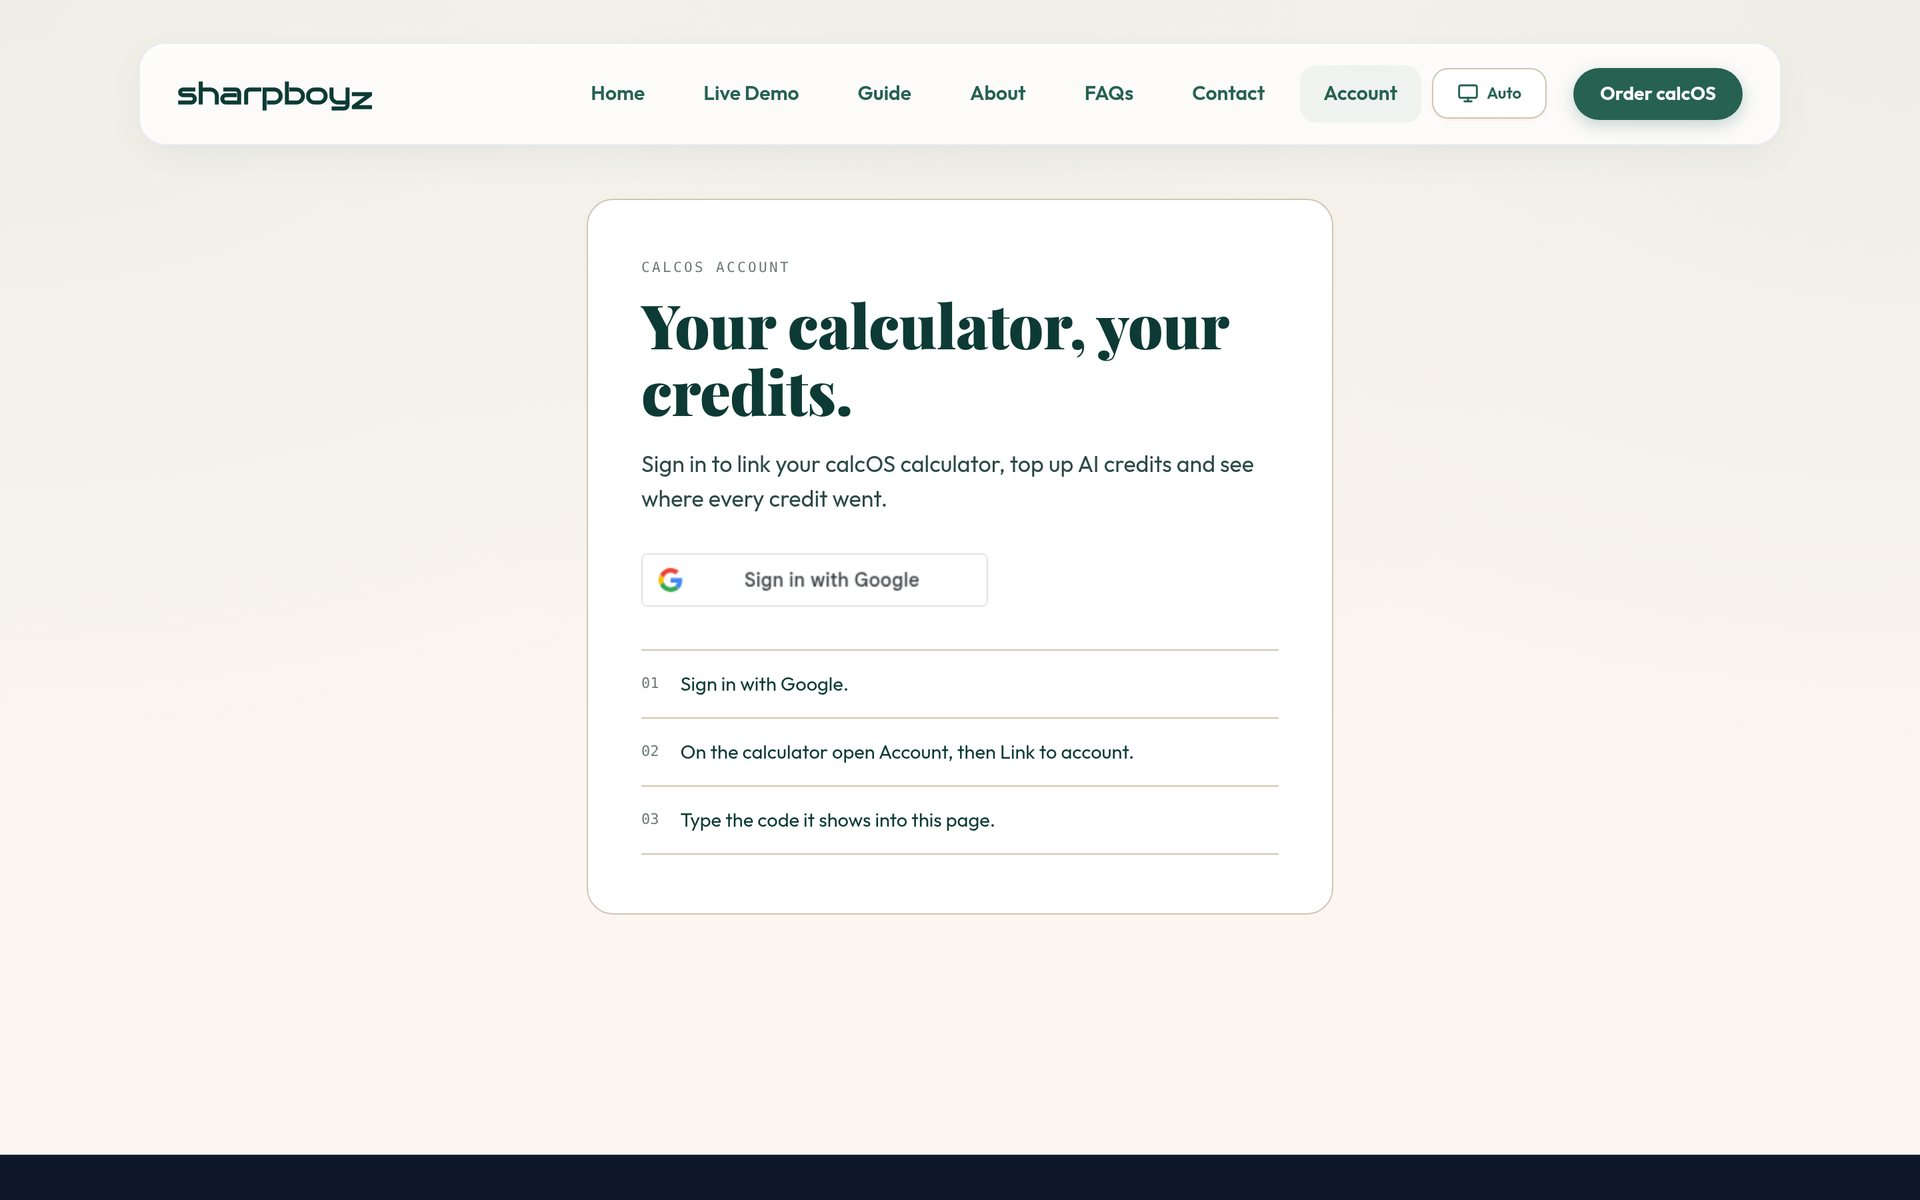
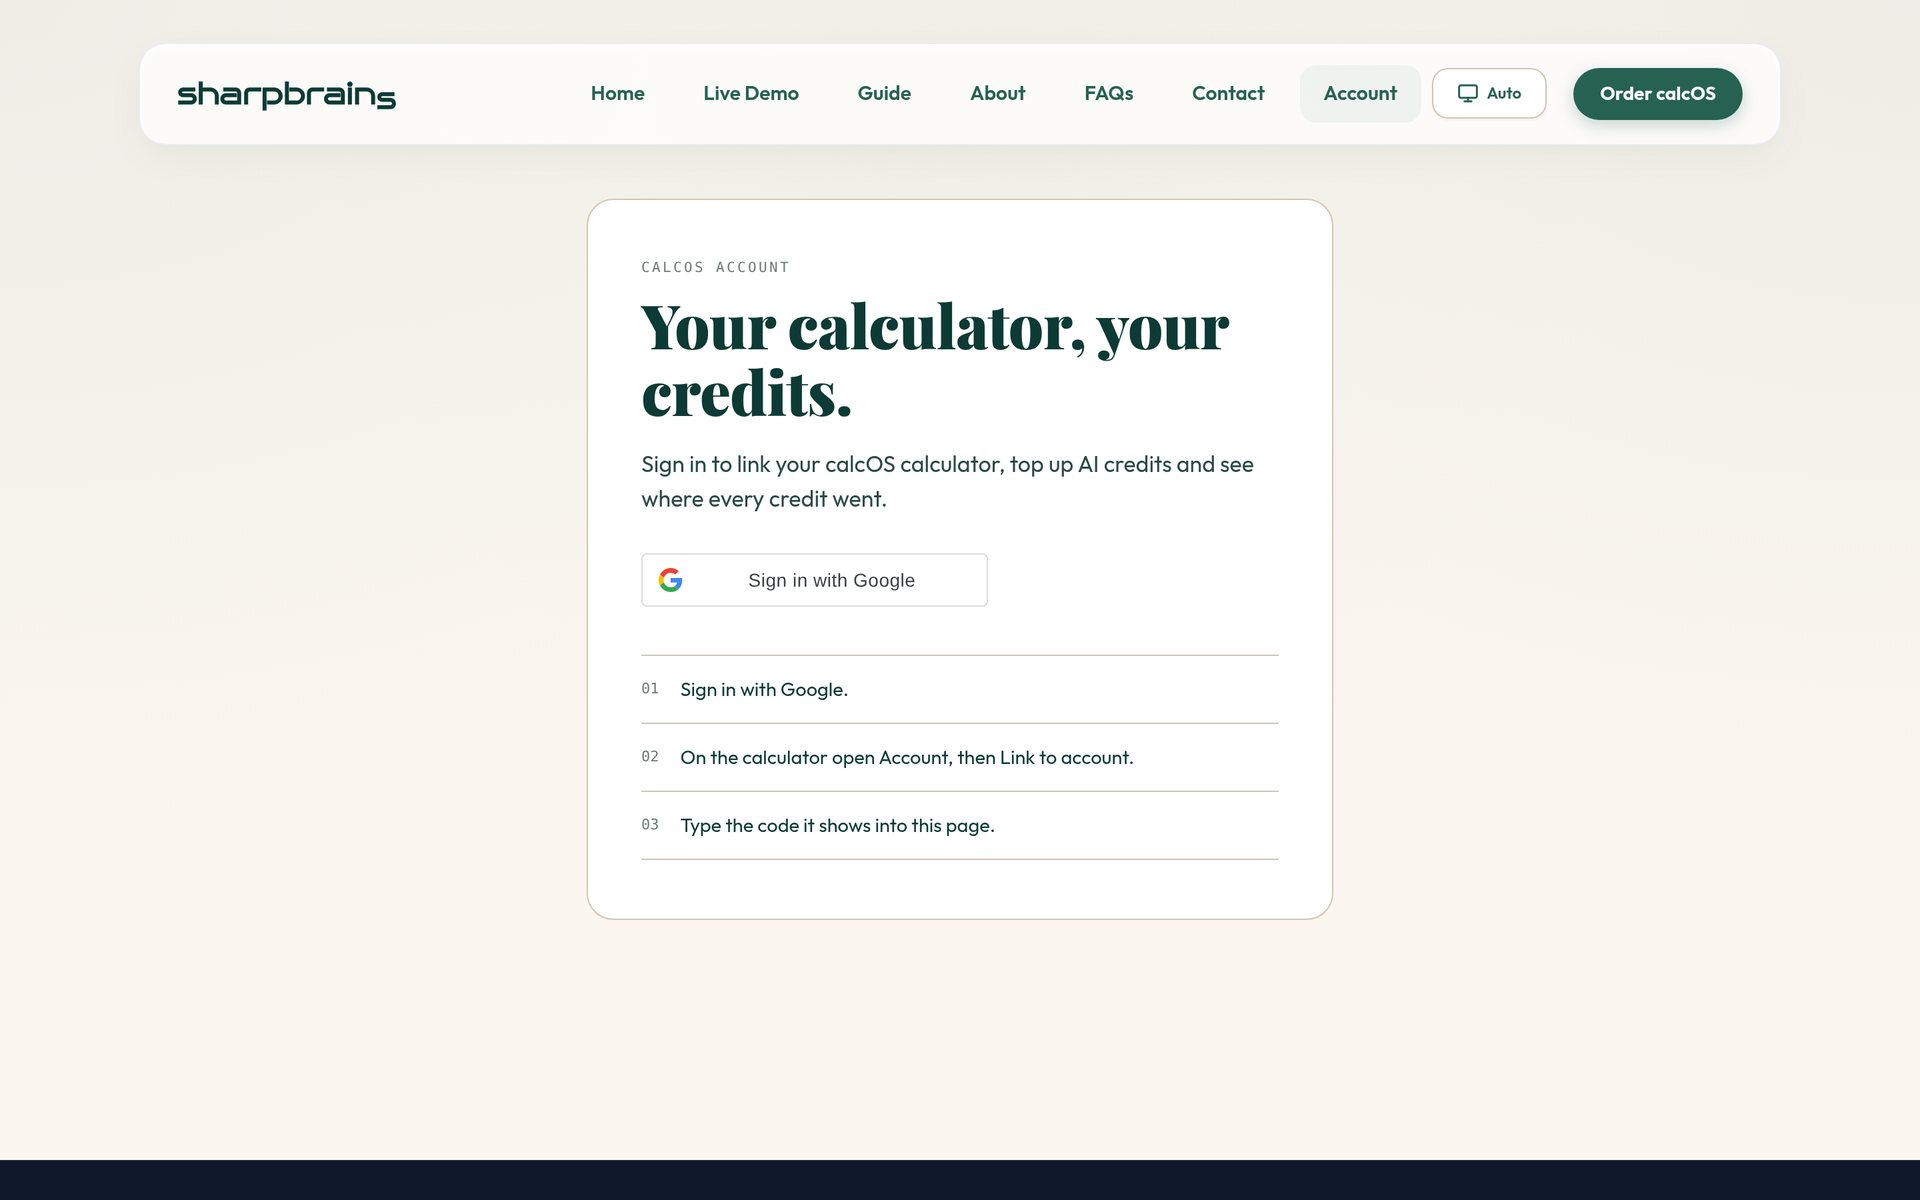
feat(flagships): Tab room first for JeffyTab; Sharpbrains landing for calcOS
- JeffyTab opens on the tab room (Tab room, Tabby AI, Sign in)
- Sharpboyz renamed Sharpbrains; calcOS links to sharpbrains.xn--jhb4c.com
  and opens on its new landing page; account and demo recaptured with the
  new branding

diff --git a/src/data/projects.ts b/src/data/projects.ts
@@ -217,7 +217,7 @@ export const PROJECTS: Project[] = [
   },
   {
     id: "sharpboyz-v3",
-    title: "Sharpboyz calcOS Platform & Emulator",
+    title: "Sharpbrains calcOS Platform & Emulator",
     subtitle: "Campus AI Calculator Web Experience, Store & In-Browser Emulator",
     category: "web",
     categoryLabel: "Production Web Platforms",
@@ -230,49 +230,66 @@ export const PROJECTS: Project[] = [
       "Integrated campus ordering pipeline and FAQ documentation system"
     ],
     techStack: ["React 19", "TypeScript", "Vite", "Tailwind CSS v4", "Canvas Emulator", "Vercel"],
-    liveUrl: "https://calcos.xn--jhb4c.com/",
+    liveUrl: "https://sharpbrains.xn--jhb4c.com/",
     githubUrl: "https://github.com/mr-ceo7",
     isFlagship: true,
     flagshipRank: 2,
     shots: [
       {
-        "label": "Account & credits",
-        "desktop": "/flagships/calcos/account-desktop.jpg",
-        "mobile": "/flagships/calcos/account-mobile.jpg"
+        "label": "Landing",
+        "desktop": "/flagships/calcos/landing-desktop.jpg",
+        "mobile": "/flagships/calcos/landing-mobile.jpg"
       },
       {
         "label": "In-browser demo",
         "desktop": "/flagships/calcos/demo-desktop.jpg",
         "mobile": "/flagships/calcos/demo-mobile.jpg"
+      },
+      {
+        "label": "Account & credits",
+        "desktop": "/flagships/calcos/account-desktop.jpg",
+        "mobile": "/flagships/calcos/account-mobile.jpg"
       }
     ],
     deploymentPlatform: "Vercel CLI",
     year: "2026",
-    screenshot: "/flagships/calcos/account-desktop.jpg",
+    screenshot: "/flagships/calcos/landing-desktop.jpg",
     carouselSlides: [
       {
-        "src": "/flagships/calcos/account-desktop.jpg",
-        "caption": "Account & credits (desktop)",
-        "alt": "Sharpboyz calcOS Platform & Emulator: Account & credits on desktop",
-        "tag": "ACCOUNT & CREDITS"
+        "src": "/flagships/calcos/landing-desktop.jpg",
+        "caption": "Landing (desktop)",
+        "alt": "Sharpbrains calcOS Platform & Emulator: Landing on desktop",
+        "tag": "LANDING"
       },
       {
-        "src": "/flagships/calcos/account-mobile.jpg",
-        "caption": "Account & credits (mobile)",
-        "alt": "Sharpboyz calcOS Platform & Emulator: Account & credits on mobile",
-        "tag": "ACCOUNT & CREDITS"
+        "src": "/flagships/calcos/landing-mobile.jpg",
+        "caption": "Landing (mobile)",
+        "alt": "Sharpbrains calcOS Platform & Emulator: Landing on mobile",
+        "tag": "LANDING"
       },
       {
         "src": "/flagships/calcos/demo-desktop.jpg",
         "caption": "In-browser demo (desktop)",
-        "alt": "Sharpboyz calcOS Platform & Emulator: In-browser demo on desktop",
+        "alt": "Sharpbrains calcOS Platform & Emulator: In-browser demo on desktop",
         "tag": "IN-BROWSER DEMO"
       },
       {
         "src": "/flagships/calcos/demo-mobile.jpg",
         "caption": "In-browser demo (mobile)",
-        "alt": "Sharpboyz calcOS Platform & Emulator: In-browser demo on mobile",
+        "alt": "Sharpbrains calcOS Platform & Emulator: In-browser demo on mobile",
         "tag": "IN-BROWSER DEMO"
+      },
+      {
+        "src": "/flagships/calcos/account-desktop.jpg",
+        "caption": "Account & credits (desktop)",
+        "alt": "Sharpbrains calcOS Platform & Emulator: Account & credits on desktop",
+        "tag": "ACCOUNT & CREDITS"
+      },
+      {
+        "src": "/flagships/calcos/account-mobile.jpg",
+        "caption": "Account & credits (mobile)",
+        "alt": "Sharpbrains calcOS Platform & Emulator: Account & credits on mobile",
+        "tag": "ACCOUNT & CREDITS"
       }
     ]
   },
@@ -698,11 +715,6 @@ export const PROJECTS: Project[] = [
     flagshipRank: 1,
     shots: [
       {
-        "label": "Sign in",
-        "desktop": "/flagships/jeffytab/login-desktop.jpg",
-        "mobile": "/flagships/jeffytab/login-mobile.jpg"
-      },
-      {
         "label": "Tab room",
         "desktop": "/flagships/jeffytab/tabroom-desktop.jpg",
         "mobile": "/flagships/jeffytab/tabroom-mobile.jpg"
@@ -711,24 +723,17 @@ export const PROJECTS: Project[] = [
         "label": "Tabby AI",
         "desktop": "/flagships/jeffytab/tabby-ai-desktop.jpg",
         "mobile": "/flagships/jeffytab/tabby-ai-mobile.jpg"
+      },
+      {
+        "label": "Sign in",
+        "desktop": "/flagships/jeffytab/login-desktop.jpg",
+        "mobile": "/flagships/jeffytab/login-mobile.jpg"
       }
     ],
     deploymentPlatform: "Vercel CLI",
     year: "2026",
-    screenshot: "/flagships/jeffytab/login-desktop.jpg",
+    screenshot: "/flagships/jeffytab/tabroom-desktop.jpg",
     carouselSlides: [
-      {
-        "src": "/flagships/jeffytab/login-desktop.jpg",
-        "caption": "Sign in (desktop)",
-        "alt": "JeffyTab Debate Adjudication Suite: Sign in on desktop",
-        "tag": "SIGN IN"
-      },
-      {
-        "src": "/flagships/jeffytab/login-mobile.jpg",
-        "caption": "Sign in (mobile)",
-        "alt": "JeffyTab Debate Adjudication Suite: Sign in on mobile",
-        "tag": "SIGN IN"
-      },
       {
         "src": "/flagships/jeffytab/tabroom-desktop.jpg",
         "caption": "Tab room (desktop)",
@@ -752,6 +757,18 @@ export const PROJECTS: Project[] = [
         "caption": "Tabby AI (mobile)",
         "alt": "JeffyTab Debate Adjudication Suite: Tabby AI on mobile",
         "tag": "TABBY AI"
+      },
+      {
+        "src": "/flagships/jeffytab/login-desktop.jpg",
+        "caption": "Sign in (desktop)",
+        "alt": "JeffyTab Debate Adjudication Suite: Sign in on desktop",
+        "tag": "SIGN IN"
+      },
+      {
+        "src": "/flagships/jeffytab/login-mobile.jpg",
+        "caption": "Sign in (mobile)",
+        "alt": "JeffyTab Debate Adjudication Suite: Sign in on mobile",
+        "tag": "SIGN IN"
       }
     ]
   },
@@ -1101,7 +1118,7 @@ export const PROJECTS: Project[] = [
       "Precision key matrix tapping enabling native calculator keypad interaction"
     ],
     techStack: ["Casio fx-991ES Plus", "ESP8266/ESP32", "Micro-OLED", "C/C++", "Hardware Reverse-Engineering"],
-    liveUrl: "https://sharpboyz-v3.vercel.app",
+    liveUrl: "https://sharpbrains.xn--jhb4c.com/",
     githubUrl: "https://github.com/mr-ceo7",
     isFlagship: true,
     deploymentPlatform: "Custom Embedded Hardware Mod",
